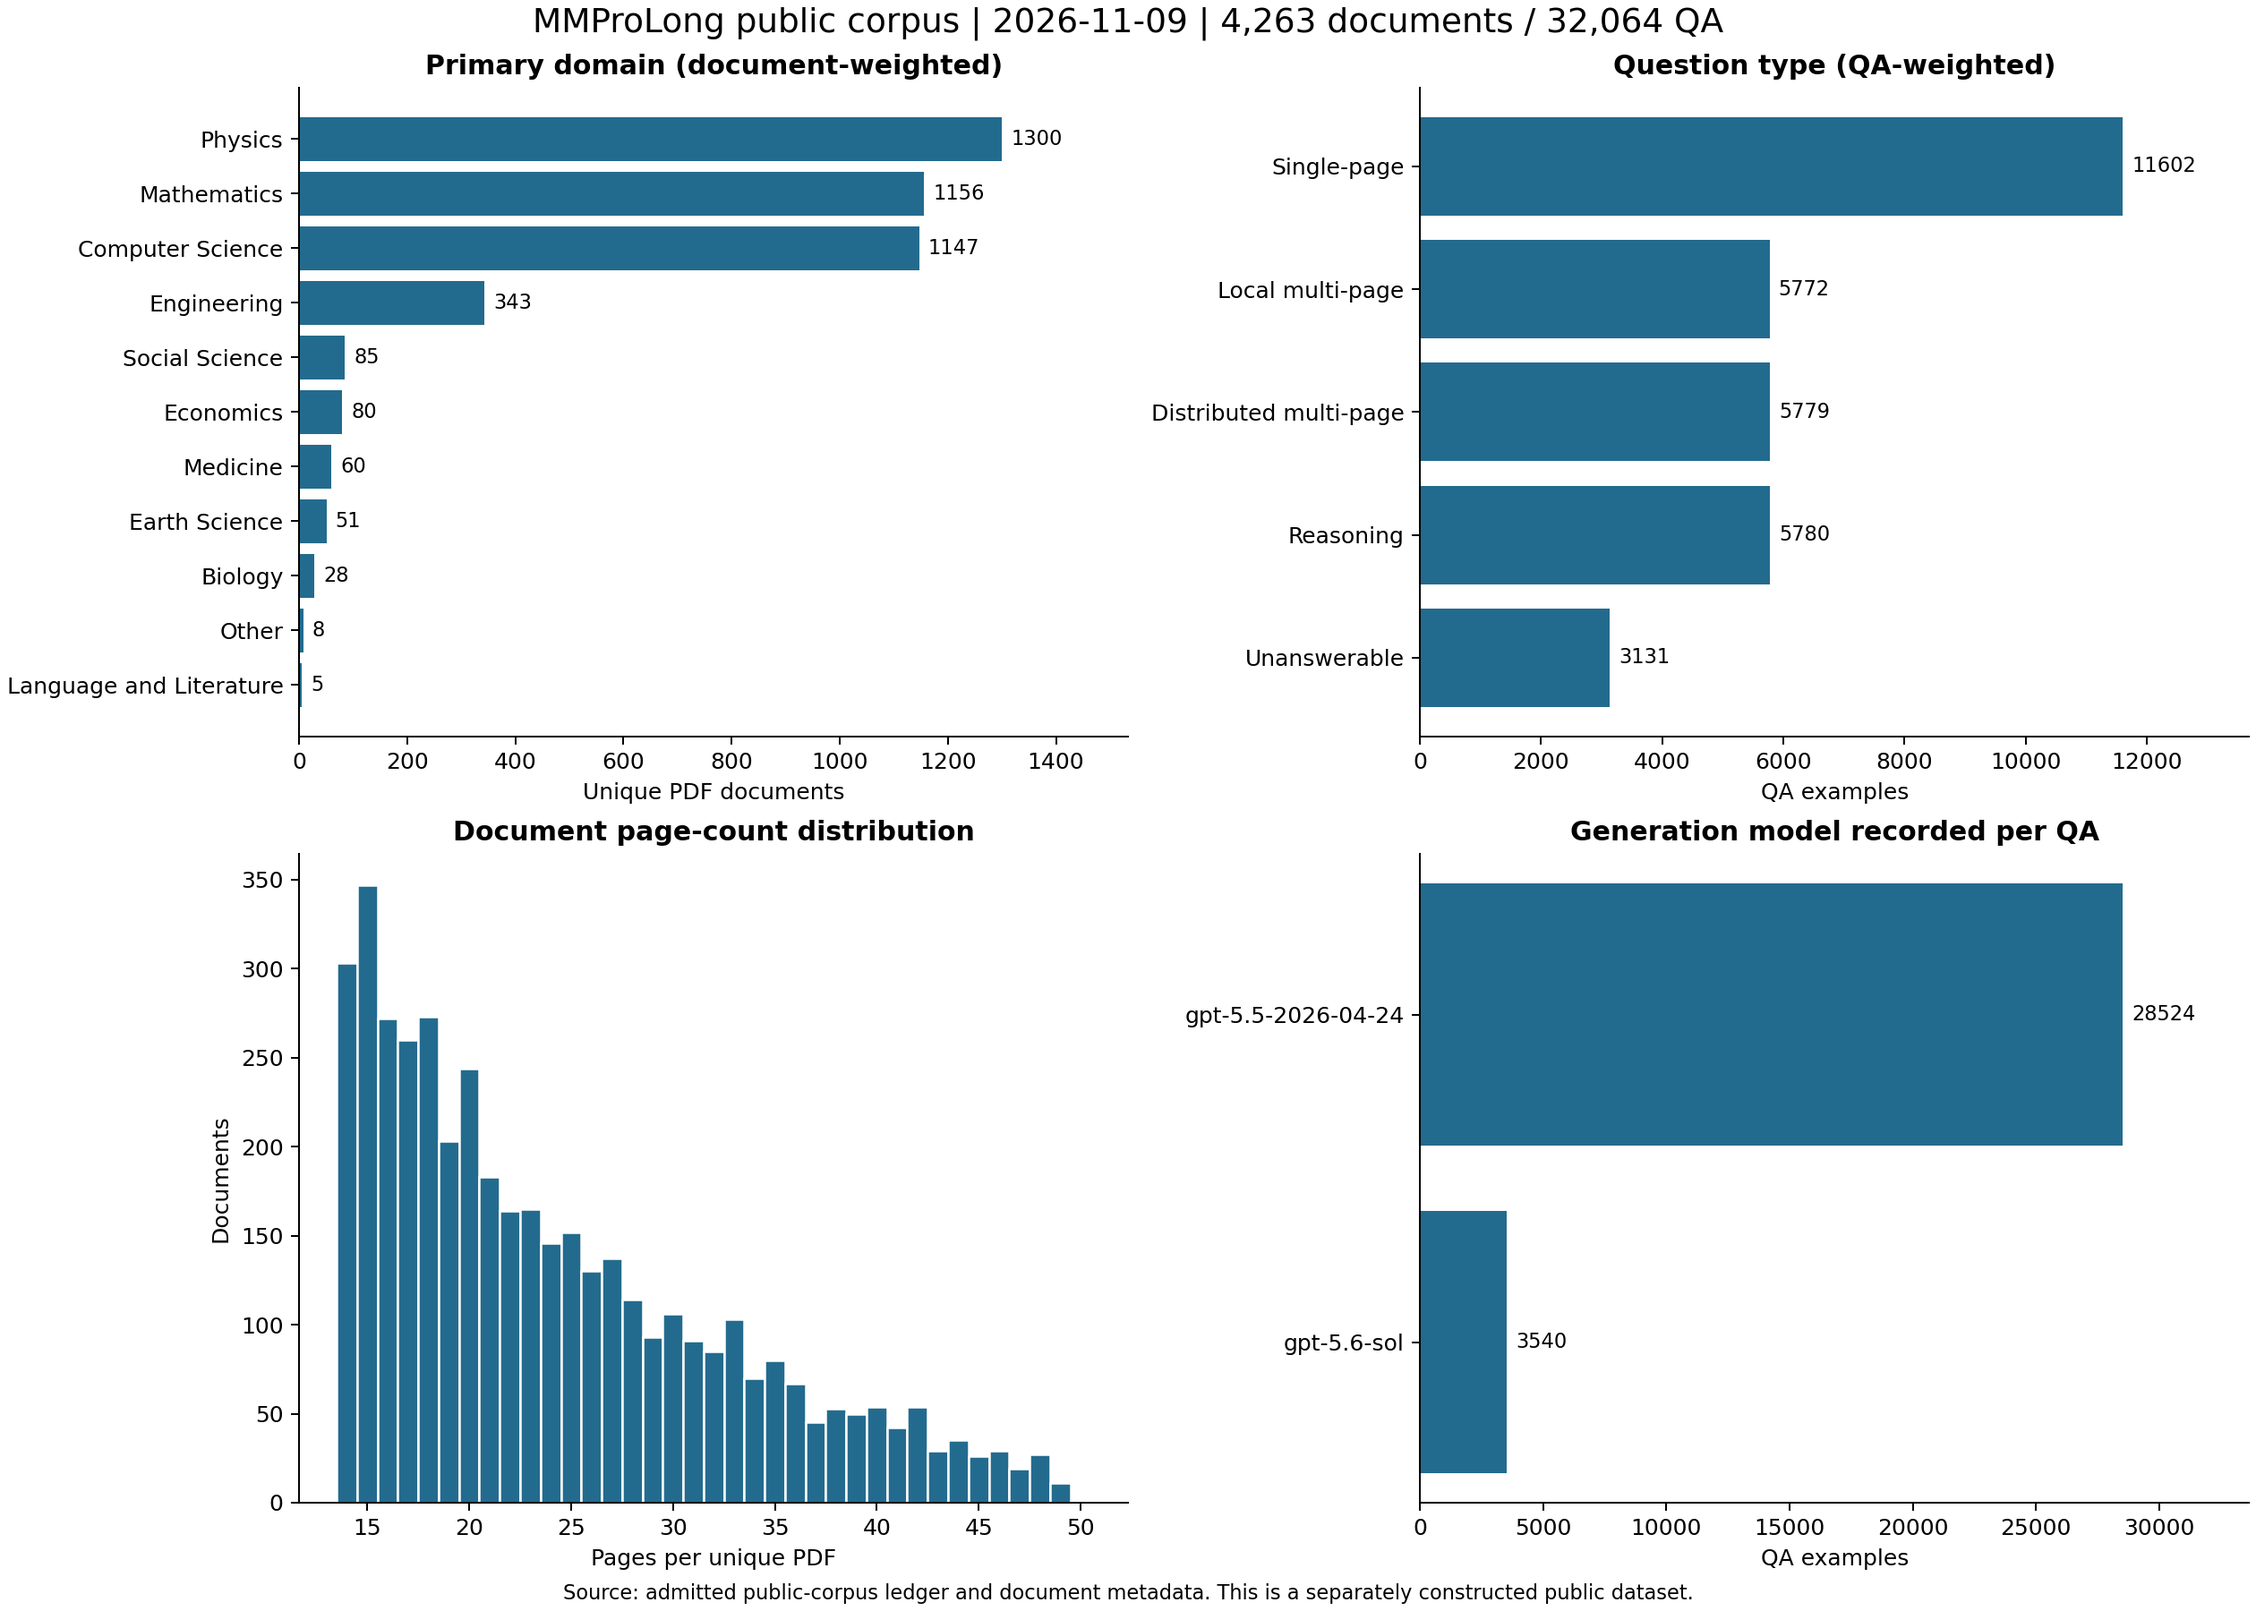
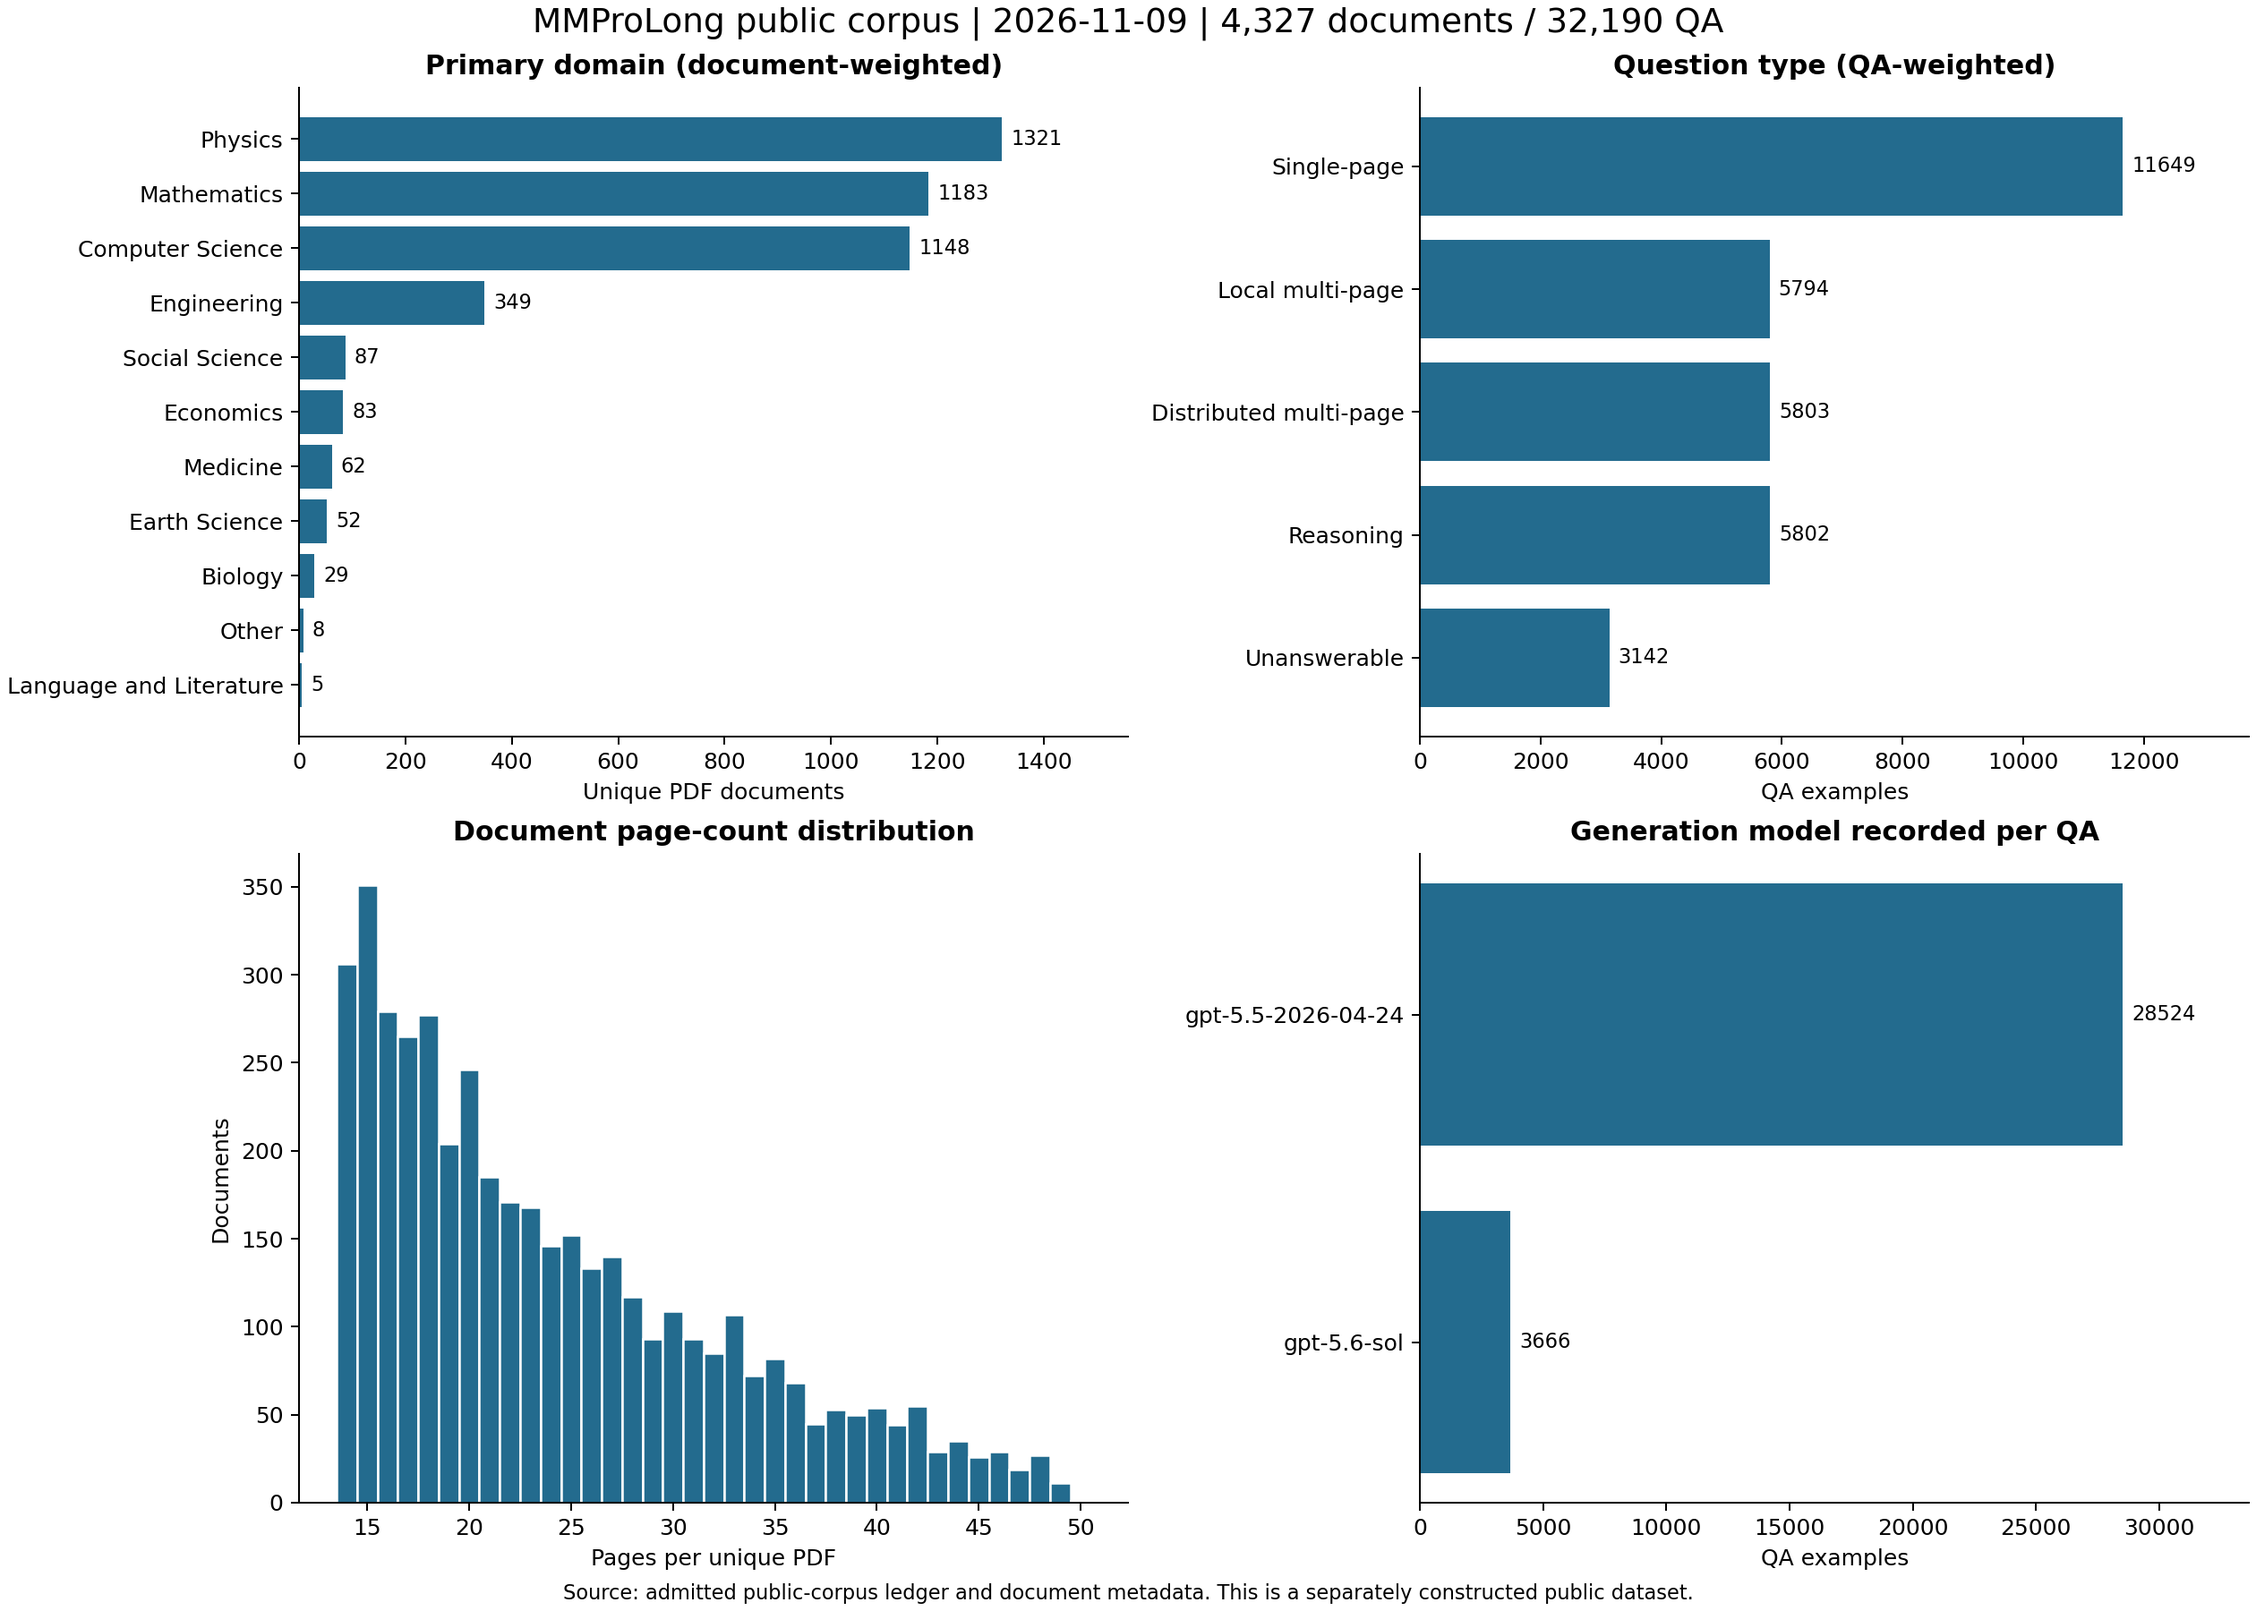
Update public corpus statistics to 1.971B measured tokens

diff --git a/docs/public_dataset.md b/docs/public_dataset.md
@@ -13,26 +13,32 @@ This page describes the admitted public snapshot identified below. It is a separ
 The manuscript defines binary prefixes (K=1024, B=2^30). Public tables use decimal K=1,000 and B=1,000,000,000; the >=100Ki statistic uses 102,400 to match the paper threshold. Exact raw counts and per-document labels are published with the dataset.
 
 <!-- PUBLIC_CORPUS_STATS_START -->
-**Public snapshot (2026-11-09): 32,064 QA examples, 4,263 source PDFs, 102,948 unique page images, and 1,963,498,927 estimated training tokens (approximately 1.963B).**
+**Public snapshot (2026-11-09): 32,190 QA examples, 4,327 source PDFs, 104,468 unique page images, and 1,971,031,106 estimated training tokens (approximately 1.971B).**
 
-[This published snapshot](https://huggingface.co/datasets/ZhaoweiWang/MMProLong-Data-Public/tree/5a2fd9a7bdadbfece7c93e7b18a4ed20465a7f0a); [latest data](https://huggingface.co/datasets/ZhaoweiWang/MMProLong-Data-Public).
+[This published snapshot](https://huggingface.co/datasets/ZhaoweiWang/MMProLong-Data-Public/tree/5a5e171ec5af2a8f34f8327f09f45787862b26a6); [latest data](https://huggingface.co/datasets/ZhaoweiWang/MMProLong-Data-Public).
 
 ### Corpus scale
 
 | Statistic | Public snapshot value |
 | --- | --- |
-| Admitted unique PDFs | 4,263 |
-| Document family | arXiv research papers |
-| Unique rendered page images | 102,948 |
-| Document pages: mean / median | 24.15 / 22 |
+| Admitted unique PDFs | 4,327 |
+| Document family | Public research papers |
+| Unique rendered page images | 104,468 |
+| Document pages: mean / median | 24.14 / 22 |
 | Document pages: range / 5th-95th percentile | 14-50 / 14-42 |
-| Admitted QA examples | 32,064 |
-| Estimated training tokens | 1,963,498,927 (1.963B) |
-| Per-QA tokens: mean / median | 61.237K / 54.789K |
+| Admitted QA examples | 32,190 |
+| Estimated training tokens | 1,971,031,106 (1.971B) |
+| Per-QA tokens: mean / median | 61.231K / 54.790K |
 | Observed token range | 33,547-125,503 |
-| At least 100,000 tokens | 2,572 (8.02%) |
-| At least 100Ki = 102,400 tokens (paper threshold) | 2,158 (6.73%) |
-| Page references across all QA contexts | 772,738 |
+| At least 100,000 tokens | 2,576 (8.00%) |
+| At least 100Ki = 102,400 tokens (paper threshold) | 2,162 (6.72%) |
+| Page references across all QA contexts | 775,703 |
+
+### Document sources
+
+| Source | Unique documents |
+| --- | --- |
+| arxiv | 4,327 |
 
 Tokens are the stored Qwen2.5-VL serialized-sample estimate, including full page-image context and QA/prompt text. A PDF used by several questions contributes its context repeatedly to the training-token total. This is not a count of unique-text tokens or billed API tokens. Page images are physically stored once per document.
 
@@ -42,12 +48,12 @@ Tokens are the stored Qwen2.5-VL serialized-sample estimate, including full page
 
 | Task | QA | Avg. pages | Avg. K tokens | B tokens | Pages | K-token range | >=100Ki |
 | --- | --- | --- | --- | --- | --- | --- | --- |
-| `single` | 11,602 | 23.99 | 60.93 | 0.707 | 14-50 | 33.80-125.13 | 6.67% |
-| `multi_local` | 5,772 | 24.07 | 61.24 | 0.353 | 14-50 | 33.85-125.50 | 6.67% |
-| `multi_distributed` | 5,779 | 24.05 | 61.15 | 0.353 | 14-50 | 33.84-125.29 | 6.73% |
-| `reasoning` | 5,780 | 24.07 | 61.13 | 0.353 | 14-50 | 33.55-125.11 | 6.45% |
-| `unanswerable` | 3,131 | 24.70 | 62.72 | 0.196 | 14-50 | 33.79-125.09 | 7.57% |
-| **Total** | 32,064 | 24.10 | 61.24 | 1.963 | 14-50 | 33.55-125.50 | 6.73% |
+| `single` | 11,649 | 23.98 | 60.92 | 0.710 | 14-50 | 33.80-125.13 | 6.65% |
+| `multi_local` | 5,794 | 24.07 | 61.24 | 0.355 | 14-50 | 33.85-125.50 | 6.64% |
+| `multi_distributed` | 5,803 | 24.05 | 61.15 | 0.355 | 14-50 | 33.84-125.29 | 6.72% |
+| `reasoning` | 5,802 | 24.07 | 61.12 | 0.355 | 14-50 | 33.55-125.11 | 6.45% |
+| `unanswerable` | 3,142 | 24.71 | 62.74 | 0.197 | 14-50 | 33.79-125.09 | 7.57% |
+| **Total** | 32,190 | 24.10 | 61.23 | 1.971 | 14-50 | 33.55-125.50 | 6.72% |
 
 `K = 1,000`, `B = 1,000,000,000`; `100Ki = 102,400` tokens. Average pages in this table are **QA-weighted**, whereas the corpus-scale document average counts each PDF once. The two multi-page rows may be combined for comparison with the paper's broader extraction category. Unanswerable QA is an additional public-data task. Exact values, quantiles, and the combined task grouping are in [`metadata/statistics.json`](https://huggingface.co/datasets/ZhaoweiWang/MMProLong-Data-Public/blob/main/metadata/statistics.json).
 
@@ -57,16 +63,16 @@ Tokens are the stored Qwen2.5-VL serialized-sample estimate, including full page
 
 | Primary domain | Documents | Document share | QA | QA share |
 | --- | --- | --- | --- | --- |
-| Physics | 1,300 | 30.49% | 9,240 | 28.82% |
-| Mathematics | 1,156 | 27.12% | 8,671 | 27.04% |
-| Computer Science | 1,147 | 26.91% | 8,972 | 27.98% |
-| Engineering | 343 | 8.05% | 2,626 | 8.19% |
-| Social Science | 85 | 1.99% | 653 | 2.04% |
-| Economics | 80 | 1.88% | 643 | 2.01% |
-| Medicine | 60 | 1.41% | 501 | 1.56% |
-| Earth Science | 51 | 1.20% | 427 | 1.33% |
-| Biology | 28 | 0.66% | 245 | 0.76% |
-| Other | 8 | 0.19% | 56 | 0.17% |
+| Physics | 1,321 | 30.53% | 9,282 | 28.84% |
+| Mathematics | 1,183 | 27.34% | 8,724 | 27.10% |
+| Computer Science | 1,148 | 26.53% | 8,974 | 27.88% |
+| Engineering | 349 | 8.07% | 2,638 | 8.20% |
+| Social Science | 87 | 2.01% | 657 | 2.04% |
+| Economics | 83 | 1.92% | 649 | 2.02% |
+| Medicine | 62 | 1.43% | 505 | 1.57% |
+| Earth Science | 52 | 1.20% | 428 | 1.33% |
+| Biology | 29 | 0.67% | 247 | 0.77% |
+| Other | 8 | 0.18% | 56 | 0.17% |
 | Language and Literature | 5 | 0.12% | 30 | 0.09% |
 
 Document and QA shares differ because historical phases generated different numbers of questions per PDF. Domain labels describe the source PDF, not a separate topic inferred for each question.
@@ -75,21 +81,21 @@ Document and QA shares differ because historical phases generated different numb
 
 | Answer format | QA | Share |
 | --- | --- | --- |
-| Integer | 4,824 | 15.04% |
-| Float | 1,508 | 4.70% |
-| List | 10,710 | 33.40% |
-| String | 11,891 | 37.09% |
-| Unanswerable | 3,131 | 9.76% |
+| Integer | 4,848 | 15.06% |
+| Float | 1,509 | 4.69% |
+| List | 10,743 | 33.37% |
+| String | 11,948 | 37.12% |
+| Unanswerable | 3,142 | 9.76% |
 
-There are **28,933 answerable** and **3,131 unanswerable** QA examples. The observed necessary-evidence page counts are: 0 pages: 3,131, 1 pages: 14,620, 2 pages: 9,508, 3 pages: 3,850, 4 pages: 955.
+There are **29,048 answerable** and **3,142 unanswerable** QA examples. The observed necessary-evidence page counts are: 0 pages: 3,142, 1 pages: 14,679, 2 pages: 9,544, 3 pages: 3,866, 4 pages: 959.
 
 <details>
 <summary>Observed QA count per source document</summary>
 
 | QA per document | Documents |
 | --- | --- |
-| 1 | 172 |
-| 2 | 1,684 |
+| 1 | 174 |
+| 2 | 1,746 |
 | 6 | 1 |
 | 8 | 1 |
 | 9 | 7 |
@@ -106,16 +112,16 @@ The 20-QA documents belong to the initial pilot; the two-QA limit applies to the
 
 | Recorded method | Documents |
 | --- | --- |
-| majority of full-context generator domain labels | 4,148 |
-| arXiv primary category mapping | 106 |
+| majority of full-context generator domain labels | 4,206 |
+| arXiv primary category mapping | 112 |
 | manual primary-topic classification for validated pilot batches | 9 |
 
 ## Document language
 
 | Estimated document language | Documents | Document share | Associated QA |
 | --- | --- | --- | --- |
-| English (`en`) | 4,258 | 99.883% | 32,024 |
-| Spanish (`es`) | 2 | 0.047% | 14 |
+| English (`en`) | 4,322 | 99.884% | 32,150 |
+| Spanish (`es`) | 2 | 0.046% | 14 |
 | French (`fr`) | 1 | 0.023% | 2 |
 | Russian (`ru`) | 1 | 0.023% | 12 |
 | Chinese (`zh`) | 1 | 0.023% | 12 |
@@ -126,14 +132,14 @@ Language labels are automatic estimates from sampled embedded PDF text; non-Engl
 
 | Recorded generation model | Documents | QA | QA share | B training tokens |
 | --- | --- | --- | --- | --- |
-| `gpt-5.5-2026-04-24` | 2,407 | 28,524 | 88.96% | 1.745 |
-| `gpt-5.6-sol` | 1,856 | 3,540 | 11.04% | 0.219 |
+| `gpt-5.5-2026-04-24` | 2,407 | 28,524 | 88.61% | 1.745 |
+| `gpt-5.6-sol` | 1,920 | 3,666 | 11.39% | 0.226 |
 
 | Phase | Documents | QA | Maximum QA per document |
 | --- | --- | --- | --- |
 | Initial pilot (GPT-5.5) | 4 | 80 | 20 |
 | GPT-5.5 production | 2,403 | 28,444 | 12 |
-| Current GPT-5.6 production | 1,856 | 3,540 | 2 |
+| Current GPT-5.6 production | 1,920 | 3,666 | 2 |
 
 The current snapshot is a **mixed-model historical release**, not an all-GPT-5.6 corpus. Use the `model` field when a model-specific subset is required.
 

diff --git a/README.md b/README.md
@@ -40,7 +40,7 @@ Please check out the [paper](https://arxiv.org/abs/2605.13831) for the study and
 ## 📢 Latest Updates
 
 <!-- PUBLIC_CORPUS_SUMMARY_START -->
-**Public snapshot (2026-11-09): 32,064 QA examples, 4,263 source PDFs, 102,948 unique page images, and 1,963,498,927 estimated training tokens (approximately 1.963B).**
+**Public snapshot (2026-11-09): 32,190 QA examples, 4,327 source PDFs, 104,468 unique page images, and 1,971,031,106 estimated training tokens (approximately 1.971B).**
 
 [Dataset](https://huggingface.co/datasets/ZhaoweiWang/MMProLong-Data-Public) | [Statistics](docs/public_dataset.md)
 <!-- PUBLIC_CORPUS_SUMMARY_END -->
